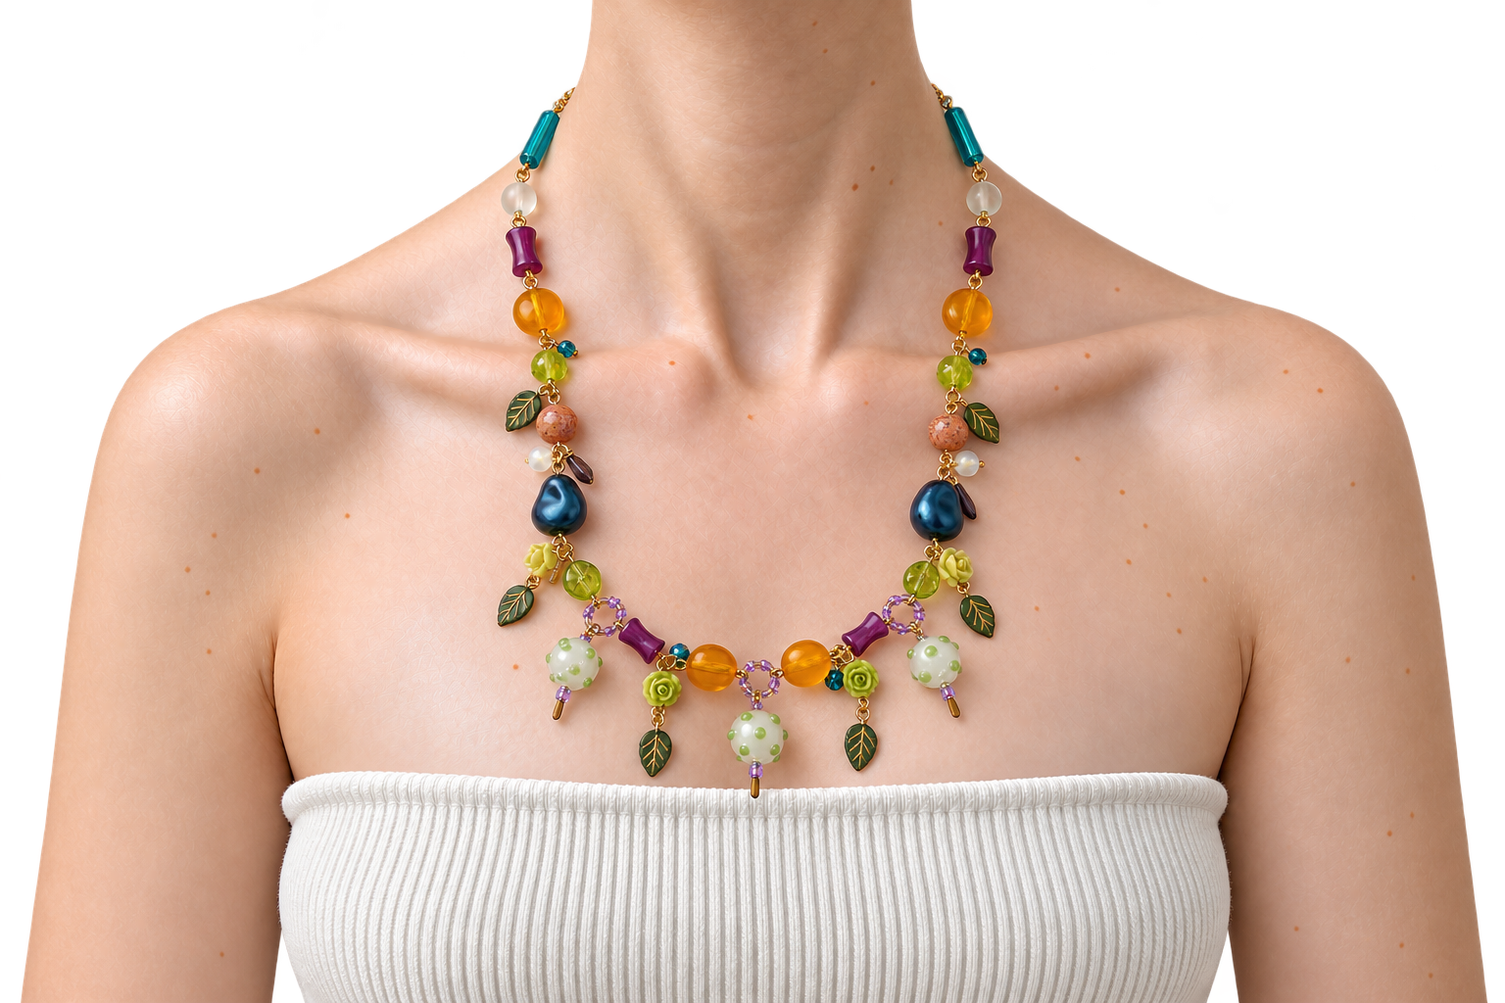
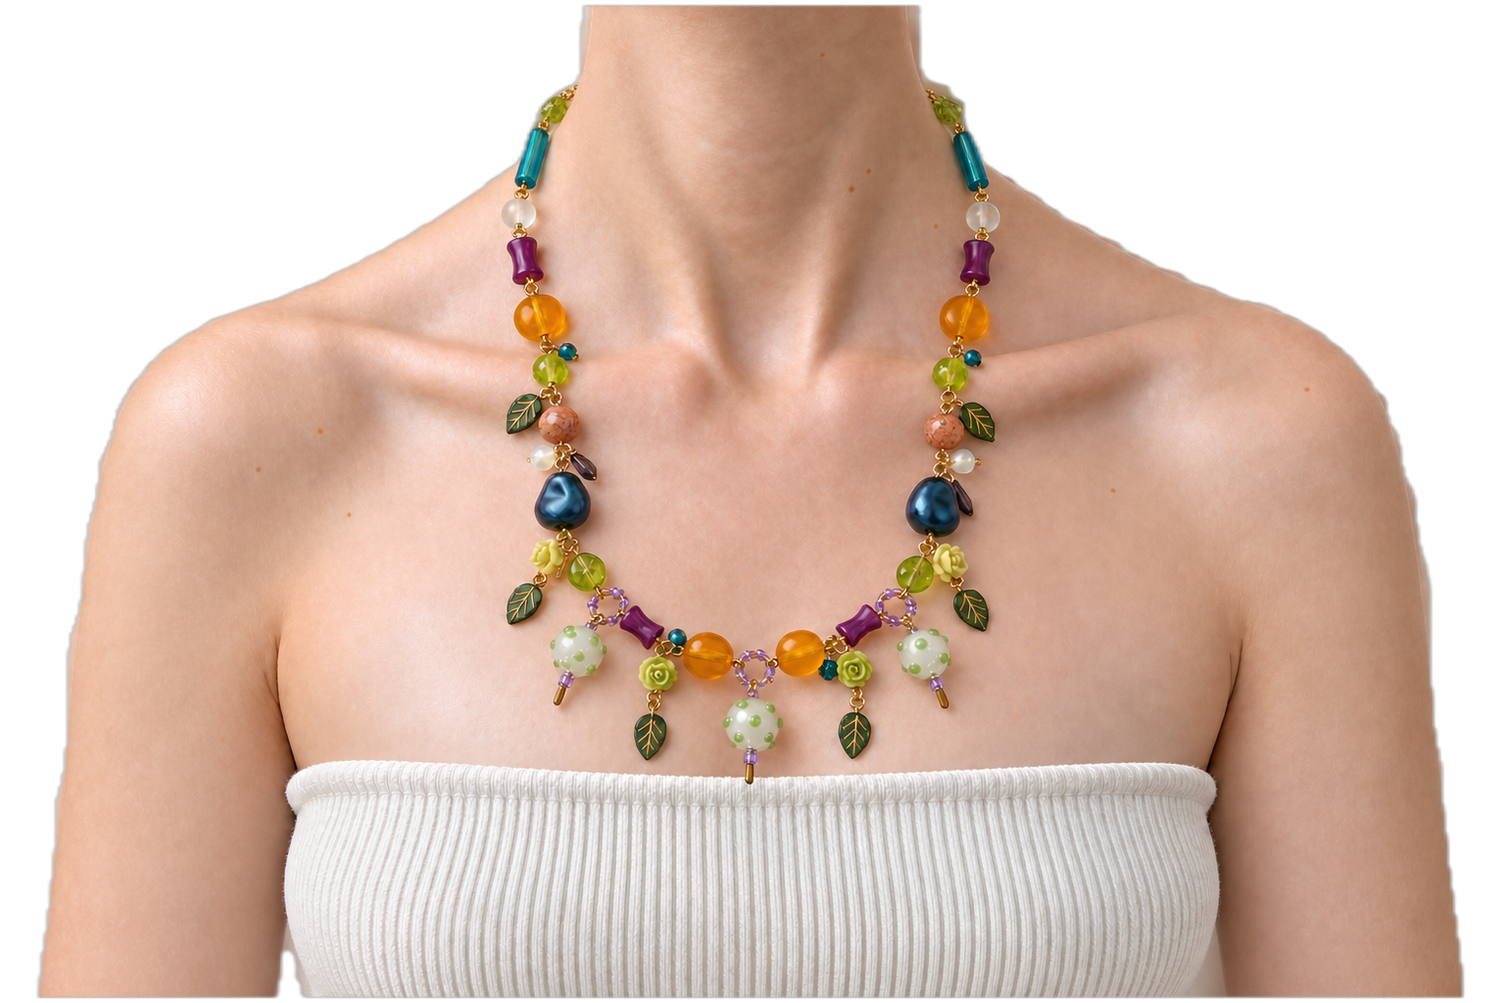
Real necklaces on the approved turning bodies: fronts lined up with Garden Party, side views for every piece
- All nine fronts redone on Garden Party's front body; every side view made on the old first-screen poses
  (angles 1, 2, 3, 5, 7) or Garden Party's turned body (angle 6), so flipping only changes the necklace
- First screen is back to necklace n at angle n: Mushroom Hunt, Jewel Box, Honeysuckle, Garden Party,
  Lavender Wings, Fruit Salad, Ember; no edge fade needed
- Cards turn to each piece's side view on hover; the popup turns through its real photos
- tools/finish_photo.py (clean cutout, line up with the pose, clean freckles), tools/align.py (line a photo up
  with a reference pose by its outline), tools/paste_crop.py (edit only the neck area, then blend it back in)

diff --git a/products.js b/products.js
@@ -20,7 +20,7 @@ window.PRODUCTS = [
     bead(i) { return i % 2 ? { r: 0.034, kind: 'spacer', metal: 'gold' } : { r: 0.07 + (i % 3) * 0.008, kind: i % 6 === 0 ? 'dots' : 'glass', color: this.palette[(i / 2 | 0) % 4], dot: '#ffffff' }; },
   },
   {
-    slug: 'mushroom-hunt', angles: [3], collection: 'mushroom-club', beadType: 'Charms', metal: 'Gold', splashShape: 'round', name: 'Mushroom Hunt', price: 64, family: 'blues', sold: false,
+    slug: 'mushroom-hunt', angles: [0, 3, 5], collection: 'mushroom-club', beadType: 'Charms', metal: 'Gold', splashShape: 'round', name: 'Mushroom Hunt', price: 64, family: 'blues', sold: false,
     backdrop: '#2f6fd1', accentInk: '#ffffff', splash: ['#4c8fe6', '#f2a03a', '#5aa83c'],
     desc: 'Little amber mushrooms and blue glass, with a big glossy spotted mushroom hanging at the center.',
     details: { Length: '18 in', Glass: 'Cobalt, sky blue, amber, leaf green', Links: 'Gold-tone wire-wrapped', Clasp: 'Lobster' },
@@ -29,7 +29,7 @@ window.PRODUCTS = [
     bead(i) { return { r: 0.06, kind: 'glass', color: this.palette[i % this.palette.length] }; },
   },
   {
-    slug: 'jewel-box', angles: [3], collection: 'chaotic-good', beadType: 'Lampwork', metal: 'Gold', splashShape: 'daisy', name: 'Jewel Box', price: 58, family: 'purples', sold: false,
+    slug: 'jewel-box', angles: [1, 3], collection: 'chaotic-good', beadType: 'Lampwork', metal: 'Gold', splashShape: 'daisy', name: 'Jewel Box', price: 58, family: 'purples', sold: false,
     backdrop: '#7a3fb0', accentInk: '#ffffff', splash: ['#8a4fbf', '#f2a03a', '#1f8fa8'],
     desc: 'Purple, amber and teal glass with three dotted white lampwork beads swinging along the front.',
     details: { Length: '18 in', Glass: 'Purple, amber, teal, lime', Links: 'Gold-tone wire-wrapped', Clasp: 'Lobster' },
@@ -38,7 +38,7 @@ window.PRODUCTS = [
     bead(i) { return { r: 0.06, kind: 'glass', color: this.palette[i % this.palette.length] }; },
   },
   {
-    slug: 'honeysuckle', angles: [3], collection: 'mushroom-club', beadType: 'Flowers', metal: 'Gold', splashShape: 'bloom', name: 'Honeysuckle', price: 56, family: 'warm', sold: false,
+    slug: 'honeysuckle', angles: [2, 3], collection: 'mushroom-club', beadType: 'Flowers', metal: 'Gold', splashShape: 'bloom', name: 'Honeysuckle', price: 56, family: 'warm', sold: false,
     backdrop: '#e8692e', accentInk: '#1b1a22', splash: ['#f2803a', '#7ccf4a', '#f2b23a'],
     desc: 'A garden of green glass leaves and peach and orange bell flowers on gold links.',
     details: { Length: '18 in', Glass: 'Leaf green, peach, orange, amber', Links: 'Gold-tone wire-wrapped', Clasp: 'Lobster' },
@@ -47,7 +47,7 @@ window.PRODUCTS = [
     bead(i) { return { r: 0.06, kind: 'glass', color: this.palette[i % this.palette.length] }; },
   },
   {
-    slug: 'lavender-wings', angles: [3], collection: 'starstruck', beadType: 'Flowers', metal: 'Gold', splashShape: 'daisy', name: 'Lavender Wings', price: 62, family: 'purples', sold: false,
+    slug: 'lavender-wings', angles: [3, 4], collection: 'starstruck', beadType: 'Flowers', metal: 'Gold', splashShape: 'daisy', name: 'Lavender Wings', price: 62, family: 'purples', sold: false,
     backdrop: '#8a4fbf', accentInk: '#ffffff', splash: ['#9b6fd6', '#f2803a', '#1fb5c9'],
     desc: 'Shimmering purple glass roses and orange butterflies with pearls and blue crystals.',
     details: { Length: '18 in', Glass: 'Lilac, violet, orange, teal', Links: 'Gold-tone wire-wrapped', Clasp: 'Lobster' },
@@ -56,7 +56,7 @@ window.PRODUCTS = [
     bead(i) { return { r: 0.06, kind: 'glass', color: this.palette[i % this.palette.length] }; },
   },
   {
-    slug: 'fruit-salad', angles: [3], collection: 'chaotic-good', beadType: 'Charms', metal: 'Gold', splashShape: 'bloom', name: 'Fruit Salad', price: 66, family: 'greens', sold: false,
+    slug: 'fruit-salad', angles: [3, 5], collection: 'chaotic-good', beadType: 'Charms', metal: 'Gold', splashShape: 'bloom', name: 'Fruit Salad', price: 66, family: 'greens', sold: false,
     backdrop: '#4f9a3a', accentInk: '#ffffff', splash: ['#5aa83c', '#f28a2e', '#6b2f7a'],
     desc: 'Glass fruit all the way around: an orange, a lemon, an apple, a plum and a blackberry at the center.',
     details: { Length: '18 in', Glass: 'Apple green, orange, lemon, plum', Links: 'Gold-tone wire-wrapped', Clasp: 'Lobster' },
@@ -65,7 +65,7 @@ window.PRODUCTS = [
     bead(i) { return { r: 0.06, kind: 'glass', color: this.palette[i % this.palette.length] }; },
   },
   {
-    slug: 'ember', angles: [3], collection: 'starstruck', beadType: 'Seed beads', metal: 'Gold', splashShape: 'round', name: 'Ember', price: 44, family: 'warm', sold: false,
+    slug: 'ember', angles: [3, 6], collection: 'starstruck', beadType: 'Seed beads', metal: 'Gold', splashShape: 'round', name: 'Ember', price: 44, family: 'warm', sold: false,
     backdrop: '#e8452e', accentInk: '#ffffff', splash: ['#f2674a', '#e4dd3b', '#c8321f'],
     desc: 'Tiny gold rings wrapped in seed beads, glowing from yellow through orange to red.',
     details: { Length: '16 in', Glass: 'Yellow, orange, red', Links: 'Gold-tone wire-wrapped', Clasp: 'Lobster' },
@@ -74,7 +74,7 @@ window.PRODUCTS = [
     bead(i) { return { r: 0.06, kind: 'glass', color: this.palette[i % this.palette.length] }; },
   },
   {
-    slug: 'butterfly-garden', angles: [3], collection: 'mushroom-club', beadType: 'Charms', metal: 'Silver', splashShape: 'round', name: 'Butterfly Garden', price: 60, family: 'greens', sold: false,
+    slug: 'butterfly-garden', angles: [3, 5], collection: 'mushroom-club', beadType: 'Charms', metal: 'Silver', splashShape: 'round', name: 'Butterfly Garden', price: 60, family: 'greens', sold: false,
     backdrop: '#3f8f3a', accentInk: '#ffffff', splash: ['#5aa83c', '#f2a03a', '#1fb5c9'],
     desc: 'Orange glass butterflies and green bell flowers among teal leaves, on silver links.',
     details: { Length: '18 in', Glass: 'Leaf green, orange, peach, teal', Links: 'Silver-tone wire-wrapped', Clasp: 'Lobster' },
@@ -83,7 +83,7 @@ window.PRODUCTS = [
     bead(i) { return { r: 0.06, kind: 'glass', color: this.palette[i % this.palette.length] }; },
   },
   {
-    slug: 'petal-soft', angles: [3], collection: 'chaotic-good', beadType: 'Lampwork', metal: 'Silver', splashShape: 'bloom', name: 'Petal Soft', price: 54, family: 'pinks', sold: false,
+    slug: 'petal-soft', angles: [3, 5], collection: 'chaotic-good', beadType: 'Lampwork', metal: 'Silver', splashShape: 'bloom', name: 'Petal Soft', price: 54, family: 'pinks', sold: false,
     backdrop: '#e86f93', accentInk: '#1b1a22', splash: ['#f5a7b8', '#9fd4a3', '#f6dfa0'],
     desc: 'Rose quartz, mint butterflies and white lampwork beads painted with tiny pink roses.',
     details: { Length: '18 in', Glass: 'Rose pink, mint, peach', Links: 'Silver-tone wire-wrapped', Clasp: 'Lobster' },
@@ -92,7 +92,7 @@ window.PRODUCTS = [
     bead(i) { return { r: 0.06, kind: 'glass', color: this.palette[i % this.palette.length] }; },
   },
   {
-    slug: 'morning-dew', angles: [3], collection: 'starstruck', beadType: 'Crystal', metal: 'Silver', splashShape: 'daisy', name: 'Morning Dew', price: 52, family: 'pastels', sold: true, soldOn: 'October',
+    slug: 'morning-dew', angles: [3, 5], collection: 'starstruck', beadType: 'Crystal', metal: 'Silver', splashShape: 'daisy', name: 'Morning Dew', price: 52, family: 'pastels', sold: true, soldOn: 'October',
     backdrop: '#6fae86', accentInk: '#1b1a22', splash: ['#9fd4a3', '#f5a7b8', '#9fd0ee'],
     desc: 'Clear crystal flowers and butterflies with sage glass and soft pink, like dew on the garden.',
     details: { Length: '18 in', Glass: 'Sage, clear crystal, blush', Links: 'Silver-tone wire-wrapped', Clasp: 'Lobster' },
@@ -102,7 +102,7 @@ window.PRODUCTS = [
   },
 ];
 
-// The first screen flips through these as you move across it (each shows its front photo).
+// The first screen turns through these, in order: necklace n is shown at angle n, left profile to right profile.
 window.HERO = ['mushroom-hunt', 'jewel-box', 'honeysuckle', 'garden-party', 'lavender-wings', 'fruit-salad', 'ember'];
 
 // Color filter chips, in display order. `color` is the bead shown on the chip.

diff --git a/shop.js b/shop.js
@@ -13,6 +13,8 @@
   // (a tint of the splash's second color, so no white shows behind the chest shots).
   const tintHex = (hex, amt) => { const n = parseInt(hex.slice(1), 16); return `rgb(${[n >> 16, (n >> 8) & 255, n & 255].map(v => Math.round(v + (255 - v) * amt))})`; };
   const tileBg = p => tintHex(p.splash[1] || p.splash[0], 0.5);
+  // The angle a card turns to on hover: turned right (5) if there's a real photo of it, else any other real photo.
+  const sideOf = p => (!p.angles ? 5 : p.angles.includes(5) ? 5 : p.angles.find(a => a !== 3));
   const accent = (el, p) => { el.style.setProperty('--accent', p.backdrop); el.style.setProperty('--accent-ink', p.accentInk); el.style.setProperty('--tile-bg', tileBg(p)); };
 
   // Chest shots: photos/<slug>-1.png … <slug>-7.png (or .jpg), one necklace at seven angles,
@@ -61,7 +63,7 @@
   // Phones can't hover, so they skip the hover photos, and fetch the hero's other photos only once someone touches it.
   const loadHero = () => (window.HERO || []).forEach((slug, k) => { const p = P.find(x => x.slug === slug); if (p) load(`${slug}-${heroAngle(p, k) + 1}`); });
   addEventListener('load', () => setTimeout(() => {
-    P.forEach(p => { load(`${p.slug}-4`); if (!touchOnly && (!p.angles || p.angles.includes(5))) load(`${p.slug}-6`); });
+    P.forEach(p => { load(`${p.slug}-4`); const side = sideOf(p); if (!touchOnly && side !== undefined) load(`${p.slug}-${side + 1}`); });
     if (touchOnly) $('stage').addEventListener('pointerdown', loadHero, { once: true }); else loadHero();
   }, 400));
   // The glass-color splash behind a necklace's photos, and the single small accent shape used elsewhere.
@@ -123,8 +125,8 @@
   // Moving across it flips through the necklaces like stop motion, each shown at its own angle,
   // from left profile (necklace 1) to right profile (necklace 7).
   const heroItems = (window.HERO || P.map(p => p.slug)).map(slug => P.find(p => p.slug === slug)).filter(Boolean).slice(0, N);
-  // Necklaces with real photos (p.angles) show their front; drawn stand-ins turn, necklace n at angle n.
-  const heroAngle = (p, k) => (p.angles ? (p.angles.includes(3) ? 3 : p.angles[0]) : k);
+  // Necklace n is shown at angle n, so moving across turns the model from left profile to right profile.
+  const heroAngle = (p, k) => k;
   const heroEl = $('hero'), stage = $('stage'), heroCanvas = $('heroCanvas');
   let cur = -1, intro = null, touched = false, press = null;
 
@@ -200,8 +202,9 @@
     painters.add(repaint);
     repaint();
     // Hovering turns the piece a little, so people see it isn't flat.
-    const turns = !p.angles || p.angles.includes(5);  // only when it has a real turned photo
-    btn.addEventListener('mouseenter', () => { if (turns) { angle = 5; repaint(); } });
+    // Hovering turns it to its side view: the turned-right photo if it has one, else its other real photo.
+    const side = sideOf(p);
+    btn.addEventListener('mouseenter', () => { if (side !== undefined) { angle = side; repaint(); } });
     btn.addEventListener('mouseleave', () => { angle = 3; repaint(); });
     btn.addEventListener('click', () => openQV(p, 3));
     (p.sold ? soldGrid : grid).appendChild(li);

diff --git a/styles.css b/styles.css
@@ -131,9 +131,7 @@ h3 { font-size: clamp(24px, 2.4vw, 30px); }
   clip-path: inset(-100vh -100vw 0 -100vw); }  /* cut the splash off flat at the photo's bottom edge, nowhere else */
 .hero-splash { position: absolute; left: 50%; top: 66%; width: 112%; aspect-ratio: 75 / 56; translate: -50% -50%; pointer-events: none; }
 .hero-splash svg { display: block; width: 100%; height: 100%; overflow: visible; }
-.stage .shot { position: absolute; left: 50%; bottom: 0; width: 56.25%; aspect-ratio: 3 / 2; translate: -50% 0;;
-  /* Some photos run off the frame at the arms; a narrow fade at the sides keeps that from ending in a hard line. */
-  -webkit-mask-image: linear-gradient(to right, transparent, #000 5%, #000 95%, transparent); mask-image: linear-gradient(to right, transparent, #000 5%, #000 95%, transparent); }
+.stage .shot { position: absolute; left: 50%; bottom: 0; width: 56.25%; aspect-ratio: 3 / 2; translate: -50% 0; }
 .tagline { position: relative; z-index: 2; margin: 18px auto 0; padding: 0 var(--gutter); text-align: center; font-size: var(--tag-size); line-height: .95; color: var(--ink); }
 /* The drawn "!": the real character stays for search and screen readers but is invisible; a stem and a bead dot
    are drawn in its place. play.js hides the dot (.bang.waiting) while the bead bounces in to become it. */

diff --git a/n/butterfly-garden/index.html b/n/butterfly-garden/index.html
@@ -34,7 +34,7 @@
 <link rel="preconnect" href="https://fonts.googleapis.com">
 <link rel="preconnect" href="https://fonts.gstatic.com" crossorigin>
 <link href="https://fonts.googleapis.com/css2?family=Bagel+Fat+One&family=Fredoka:wght@400;500;600&family=Shrikhand&display=swap" rel="stylesheet">
-<link rel="stylesheet" href="styles.css?v=109">
+<link rel="stylesheet" href="styles.css?v=110">
 </head>
 <body data-product="butterfly-garden">
 <a class="skip" href="#shop">Skip to the necklaces</a>
@@ -264,12 +264,12 @@
   </div>
 </dialog>
 
-<script src="products.js?v=109"></script>
-<script src="standin.js?v=109"></script>
-<script src="splash.js?v=109"></script>
-<script src="shop.js?v=109"></script>
-<script src="play.js?v=109"></script>
-<script src="stack.js?v=109" defer></script>
+<script src="products.js?v=110"></script>
+<script src="standin.js?v=110"></script>
+<script src="splash.js?v=110"></script>
+<script src="shop.js?v=110"></script>
+<script src="play.js?v=110"></script>
+<script src="stack.js?v=110" defer></script>
 <script>if ('serviceWorker' in navigator) addEventListener('load', () => navigator.serviceWorker.register('sw.js'));</script>
 </body>
 </html>

diff --git a/n/lavender-wings/index.html b/n/lavender-wings/index.html
@@ -34,7 +34,7 @@
 <link rel="preconnect" href="https://fonts.googleapis.com">
 <link rel="preconnect" href="https://fonts.gstatic.com" crossorigin>
 <link href="https://fonts.googleapis.com/css2?family=Bagel+Fat+One&family=Fredoka:wght@400;500;600&family=Shrikhand&display=swap" rel="stylesheet">
-<link rel="stylesheet" href="styles.css?v=109">
+<link rel="stylesheet" href="styles.css?v=110">
 </head>
 <body data-product="lavender-wings">
 <a class="skip" href="#shop">Skip to the necklaces</a>
@@ -264,12 +264,12 @@
   </div>
 </dialog>
 
-<script src="products.js?v=109"></script>
-<script src="standin.js?v=109"></script>
-<script src="splash.js?v=109"></script>
-<script src="shop.js?v=109"></script>
-<script src="play.js?v=109"></script>
-<script src="stack.js?v=109" defer></script>
+<script src="products.js?v=110"></script>
+<script src="standin.js?v=110"></script>
+<script src="splash.js?v=110"></script>
+<script src="shop.js?v=110"></script>
+<script src="play.js?v=110"></script>
+<script src="stack.js?v=110" defer></script>
 <script>if ('serviceWorker' in navigator) addEventListener('load', () => navigator.serviceWorker.register('sw.js'));</script>
 </body>
 </html>

diff --git a/n/mushroom-hunt/index.html b/n/mushroom-hunt/index.html
@@ -34,7 +34,7 @@
 <link rel="preconnect" href="https://fonts.googleapis.com">
 <link rel="preconnect" href="https://fonts.gstatic.com" crossorigin>
 <link href="https://fonts.googleapis.com/css2?family=Bagel+Fat+One&family=Fredoka:wght@400;500;600&family=Shrikhand&display=swap" rel="stylesheet">
-<link rel="stylesheet" href="styles.css?v=109">
+<link rel="stylesheet" href="styles.css?v=110">
 </head>
 <body data-product="mushroom-hunt">
 <a class="skip" href="#shop">Skip to the necklaces</a>
@@ -264,12 +264,12 @@
   </div>
 </dialog>
 
-<script src="products.js?v=109"></script>
-<script src="standin.js?v=109"></script>
-<script src="splash.js?v=109"></script>
-<script src="shop.js?v=109"></script>
-<script src="play.js?v=109"></script>
-<script src="stack.js?v=109" defer></script>
+<script src="products.js?v=110"></script>
+<script src="standin.js?v=110"></script>
+<script src="splash.js?v=110"></script>
+<script src="shop.js?v=110"></script>
+<script src="play.js?v=110"></script>
+<script src="stack.js?v=110" defer></script>
 <script>if ('serviceWorker' in navigator) addEventListener('load', () => navigator.serviceWorker.register('sw.js'));</script>
 </body>
 </html>

diff --git a/n/garden-party/index.html b/n/garden-party/index.html
@@ -34,7 +34,7 @@
 <link rel="preconnect" href="https://fonts.googleapis.com">
 <link rel="preconnect" href="https://fonts.gstatic.com" crossorigin>
 <link href="https://fonts.googleapis.com/css2?family=Bagel+Fat+One&family=Fredoka:wght@400;500;600&family=Shrikhand&display=swap" rel="stylesheet">
-<link rel="stylesheet" href="styles.css?v=109">
+<link rel="stylesheet" href="styles.css?v=110">
 </head>
 <body data-product="garden-party">
 <a class="skip" href="#shop">Skip to the necklaces</a>
@@ -264,12 +264,12 @@
   </div>
 </dialog>
 
-<script src="products.js?v=109"></script>
-<script src="standin.js?v=109"></script>
-<script src="splash.js?v=109"></script>
-<script src="shop.js?v=109"></script>
-<script src="play.js?v=109"></script>
-<script src="stack.js?v=109" defer></script>
+<script src="products.js?v=110"></script>
+<script src="standin.js?v=110"></script>
+<script src="splash.js?v=110"></script>
+<script src="shop.js?v=110"></script>
+<script src="play.js?v=110"></script>
+<script src="stack.js?v=110" defer></script>
 <script>if ('serviceWorker' in navigator) addEventListener('load', () => navigator.serviceWorker.register('sw.js'));</script>
 </body>
 </html>

diff --git a/n/fruit-salad/index.html b/n/fruit-salad/index.html
@@ -34,7 +34,7 @@
 <link rel="preconnect" href="https://fonts.googleapis.com">
 <link rel="preconnect" href="https://fonts.gstatic.com" crossorigin>
 <link href="https://fonts.googleapis.com/css2?family=Bagel+Fat+One&family=Fredoka:wght@400;500;600&family=Shrikhand&display=swap" rel="stylesheet">
-<link rel="stylesheet" href="styles.css?v=109">
+<link rel="stylesheet" href="styles.css?v=110">
 </head>
 <body data-product="fruit-salad">
 <a class="skip" href="#shop">Skip to the necklaces</a>
@@ -264,12 +264,12 @@
   </div>
 </dialog>
 
-<script src="products.js?v=109"></script>
-<script src="standin.js?v=109"></script>
-<script src="splash.js?v=109"></script>
-<script src="shop.js?v=109"></script>
-<script src="play.js?v=109"></script>
-<script src="stack.js?v=109" defer></script>
+<script src="products.js?v=110"></script>
+<script src="standin.js?v=110"></script>
+<script src="splash.js?v=110"></script>
+<script src="shop.js?v=110"></script>
+<script src="play.js?v=110"></script>
+<script src="stack.js?v=110" defer></script>
 <script>if ('serviceWorker' in navigator) addEventListener('load', () => navigator.serviceWorker.register('sw.js'));</script>
 </body>
 </html>

diff --git a/n/honeysuckle/index.html b/n/honeysuckle/index.html
@@ -34,7 +34,7 @@
 <link rel="preconnect" href="https://fonts.googleapis.com">
 <link rel="preconnect" href="https://fonts.gstatic.com" crossorigin>
 <link href="https://fonts.googleapis.com/css2?family=Bagel+Fat+One&family=Fredoka:wght@400;500;600&family=Shrikhand&display=swap" rel="stylesheet">
-<link rel="stylesheet" href="styles.css?v=109">
+<link rel="stylesheet" href="styles.css?v=110">
 </head>
 <body data-product="honeysuckle">
 <a class="skip" href="#shop">Skip to the necklaces</a>
@@ -264,12 +264,12 @@
   </div>
 </dialog>
 
-<script src="products.js?v=109"></script>
-<script src="standin.js?v=109"></script>
-<script src="splash.js?v=109"></script>
-<script src="shop.js?v=109"></script>
-<script src="play.js?v=109"></script>
-<script src="stack.js?v=109" defer></script>
+<script src="products.js?v=110"></script>
+<script src="standin.js?v=110"></script>
+<script src="splash.js?v=110"></script>
+<script src="shop.js?v=110"></script>
+<script src="play.js?v=110"></script>
+<script src="stack.js?v=110" defer></script>
 <script>if ('serviceWorker' in navigator) addEventListener('load', () => navigator.serviceWorker.register('sw.js'));</script>
 </body>
 </html>

diff --git a/n/morning-dew/index.html b/n/morning-dew/index.html
@@ -34,7 +34,7 @@
 <link rel="preconnect" href="https://fonts.googleapis.com">
 <link rel="preconnect" href="https://fonts.gstatic.com" crossorigin>
 <link href="https://fonts.googleapis.com/css2?family=Bagel+Fat+One&family=Fredoka:wght@400;500;600&family=Shrikhand&display=swap" rel="stylesheet">
-<link rel="stylesheet" href="styles.css?v=109">
+<link rel="stylesheet" href="styles.css?v=110">
 </head>
 <body data-product="morning-dew">
 <a class="skip" href="#shop">Skip to the necklaces</a>
@@ -264,12 +264,12 @@
   </div>
 </dialog>
 
-<script src="products.js?v=109"></script>
-<script src="standin.js?v=109"></script>
-<script src="splash.js?v=109"></script>
-<script src="shop.js?v=109"></script>
-<script src="play.js?v=109"></script>
-<script src="stack.js?v=109" defer></script>
+<script src="products.js?v=110"></script>
+<script src="standin.js?v=110"></script>
+<script src="splash.js?v=110"></script>
+<script src="shop.js?v=110"></script>
+<script src="play.js?v=110"></script>
+<script src="stack.js?v=110" defer></script>
 <script>if ('serviceWorker' in navigator) addEventListener('load', () => navigator.serviceWorker.register('sw.js'));</script>
 </body>
 </html>

diff --git a/n/petal-soft/index.html b/n/petal-soft/index.html
@@ -34,7 +34,7 @@
 <link rel="preconnect" href="https://fonts.googleapis.com">
 <link rel="preconnect" href="https://fonts.gstatic.com" crossorigin>
 <link href="https://fonts.googleapis.com/css2?family=Bagel+Fat+One&family=Fredoka:wght@400;500;600&family=Shrikhand&display=swap" rel="stylesheet">
-<link rel="stylesheet" href="styles.css?v=109">
+<link rel="stylesheet" href="styles.css?v=110">
 </head>
 <body data-product="petal-soft">
 <a class="skip" href="#shop">Skip to the necklaces</a>
@@ -264,12 +264,12 @@
   </div>
 </dialog>
 
-<script src="products.js?v=109"></script>
-<script src="standin.js?v=109"></script>
-<script src="splash.js?v=109"></script>
-<script src="shop.js?v=109"></script>
-<script src="play.js?v=109"></script>
-<script src="stack.js?v=109" defer></script>
+<script src="products.js?v=110"></script>
+<script src="standin.js?v=110"></script>
+<script src="splash.js?v=110"></script>
+<script src="shop.js?v=110"></script>
+<script src="play.js?v=110"></script>
+<script src="stack.js?v=110" defer></script>
 <script>if ('serviceWorker' in navigator) addEventListener('load', () => navigator.serviceWorker.register('sw.js'));</script>
 </body>
 </html>

diff --git a/n/jewel-box/index.html b/n/jewel-box/index.html
@@ -34,7 +34,7 @@
 <link rel="preconnect" href="https://fonts.googleapis.com">
 <link rel="preconnect" href="https://fonts.gstatic.com" crossorigin>
 <link href="https://fonts.googleapis.com/css2?family=Bagel+Fat+One&family=Fredoka:wght@400;500;600&family=Shrikhand&display=swap" rel="stylesheet">
-<link rel="stylesheet" href="styles.css?v=109">
+<link rel="stylesheet" href="styles.css?v=110">
 </head>
 <body data-product="jewel-box">
 <a class="skip" href="#shop">Skip to the necklaces</a>
@@ -264,12 +264,12 @@
   </div>
 </dialog>
 
-<script src="products.js?v=109"></script>
-<script src="standin.js?v=109"></script>
-<script src="splash.js?v=109"></script>
-<script src="shop.js?v=109"></script>
-<script src="play.js?v=109"></script>
-<script src="stack.js?v=109" defer></script>
+<script src="products.js?v=110"></script>
+<script src="standin.js?v=110"></script>
+<script src="splash.js?v=110"></script>
+<script src="shop.js?v=110"></script>
+<script src="play.js?v=110"></script>
+<script src="stack.js?v=110" defer></script>
 <script>if ('serviceWorker' in navigator) addEventListener('load', () => navigator.serviceWorker.register('sw.js'));</script>
 </body>
 </html>
